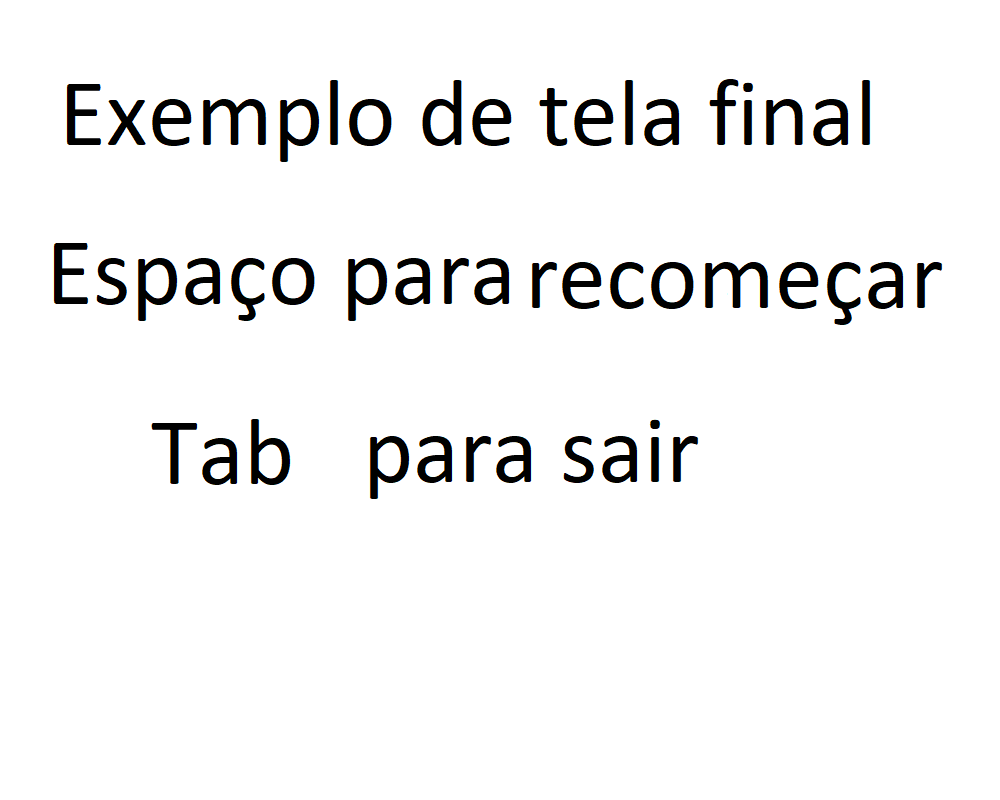
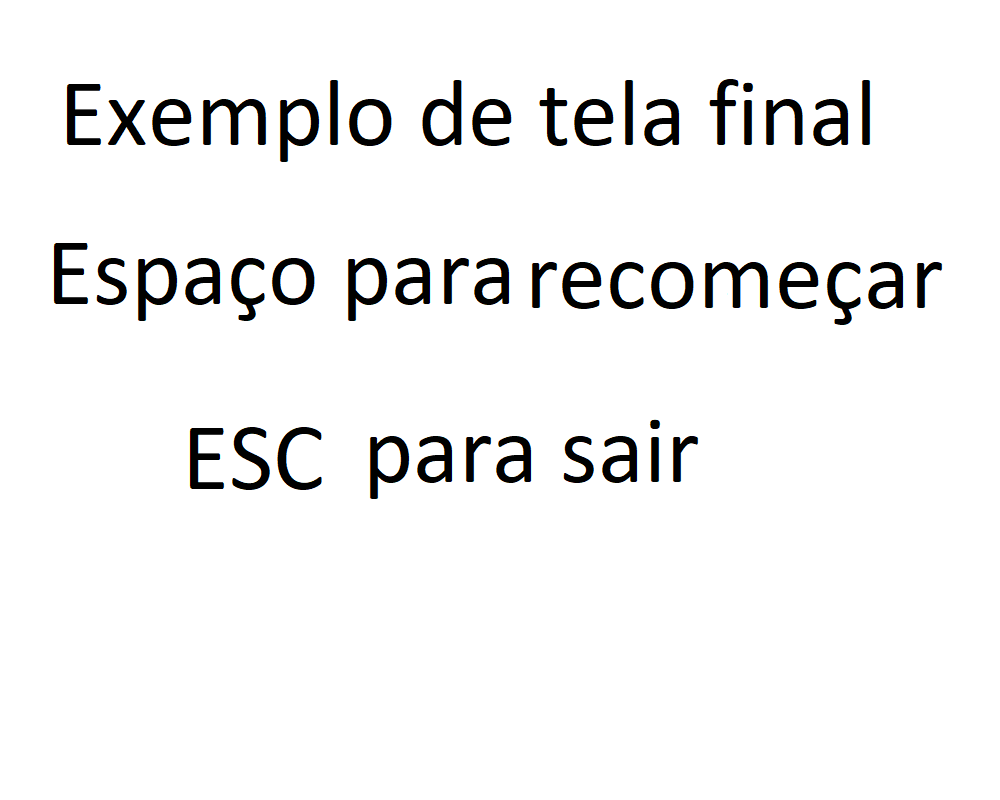
Coloquei a opção de sair em todas as telas

Changed region(s): [[0.155, 0.5312, 0.341, 0.625]]

diff --git a/coronashooter/main.py b/coronashooter/main.py
@@ -32,6 +32,7 @@ class Jogo:
         self.imagem_inicial=Telas()
         self.iniciando = True
         self.imagem_final = Telas('tela_final.png')
+        self.tela_pause = Telas('tela_pause.png')
 
         self.screen_size = self.tela.get_size()
         pygame.mouse.set_visible(0)
@@ -174,13 +175,21 @@ class Jogo:
     # Verifica se o usuário pausou o jogo e o mantém em uma tela de pausa
     def verifica_pausa(self):
         while(self.pause):
-            self.imagem_inicial.draw(self.tela)
+            self.tela_pause.draw(self.tela)
             event = pygame.event.poll()
+            #evento para sair do jogo ao clicar no X da janela
+            if event.type == pygame.QUIT:
+                self.run = False
+                self.pause=False
             if event.type == pygame.KEYDOWN:
                 if event.key == pygame.K_SPACE:
                     self.pause = False
                 elif event.key == pygame.K_TAB:
                     self.salva_jogo()
+                #evento para fechar a janela ao apertar esc
+                elif event.key == K_ESCAPE:
+                    self.run = False
+                    self.pause = False
 
     def carrega_jogo(self):
         teste = pickle.load(open("save.p", "rb"))
@@ -195,8 +204,14 @@ class Jogo:
 
         while self.iniciando:
             event = pygame.event.poll()
+            if event.type == pygame.QUIT:
+                self.run = False
+                self.iniciando=False
             if event.type in (KEYDOWN, KEYUP):
                 key = event.key
+                if key == K_ESCAPE:
+                    self.run = False
+                    self.iniciando = False
                 if key == K_SPACE:
                     self.iniciando = False
                 # Caso o usuário aperte TAB, carrega o jogo salvo
@@ -209,8 +224,14 @@ class Jogo:
         self.imagem_final.draw(self.tela)
         while final:
             event = pygame.event.poll()
+            if event.type == pygame.QUIT:
+                self.run = False
+                final=False
             if event.type in (KEYDOWN, KEYUP):
                 key = event.key
+                if key == K_ESCAPE:
+                    self.run = False
+                    final=False
                 if key == K_SPACE:
                     final = False
                     self.run = True
@@ -218,9 +239,6 @@ class Jogo:
                     self.nivel =0
                     self.vida_virus = 0
                     self.loop()
-                elif key == K_TAB:
-                    final=False
-                    self.run=False
 
     def loop(self):
         clock = pygame.time.Clock()
